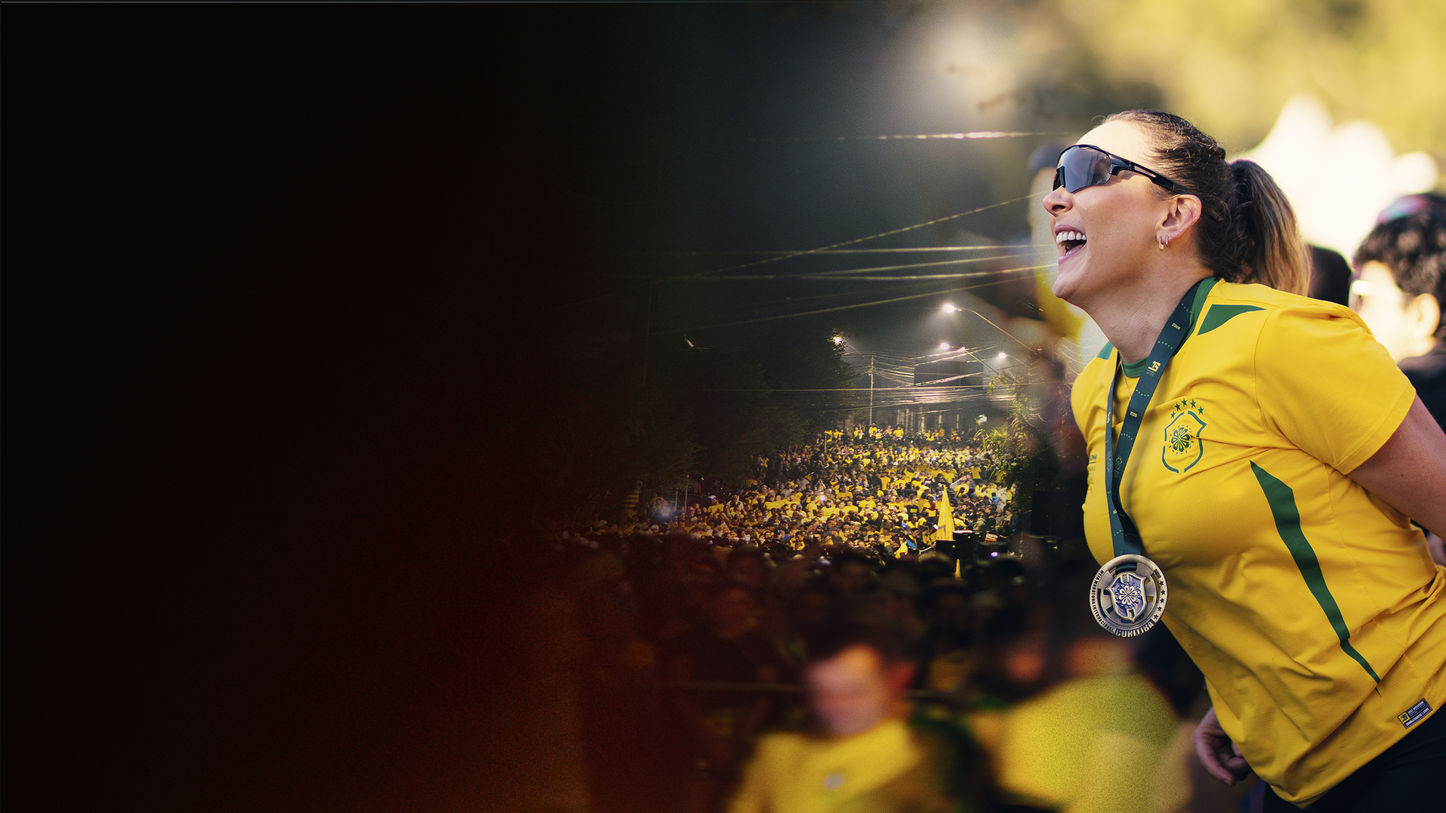
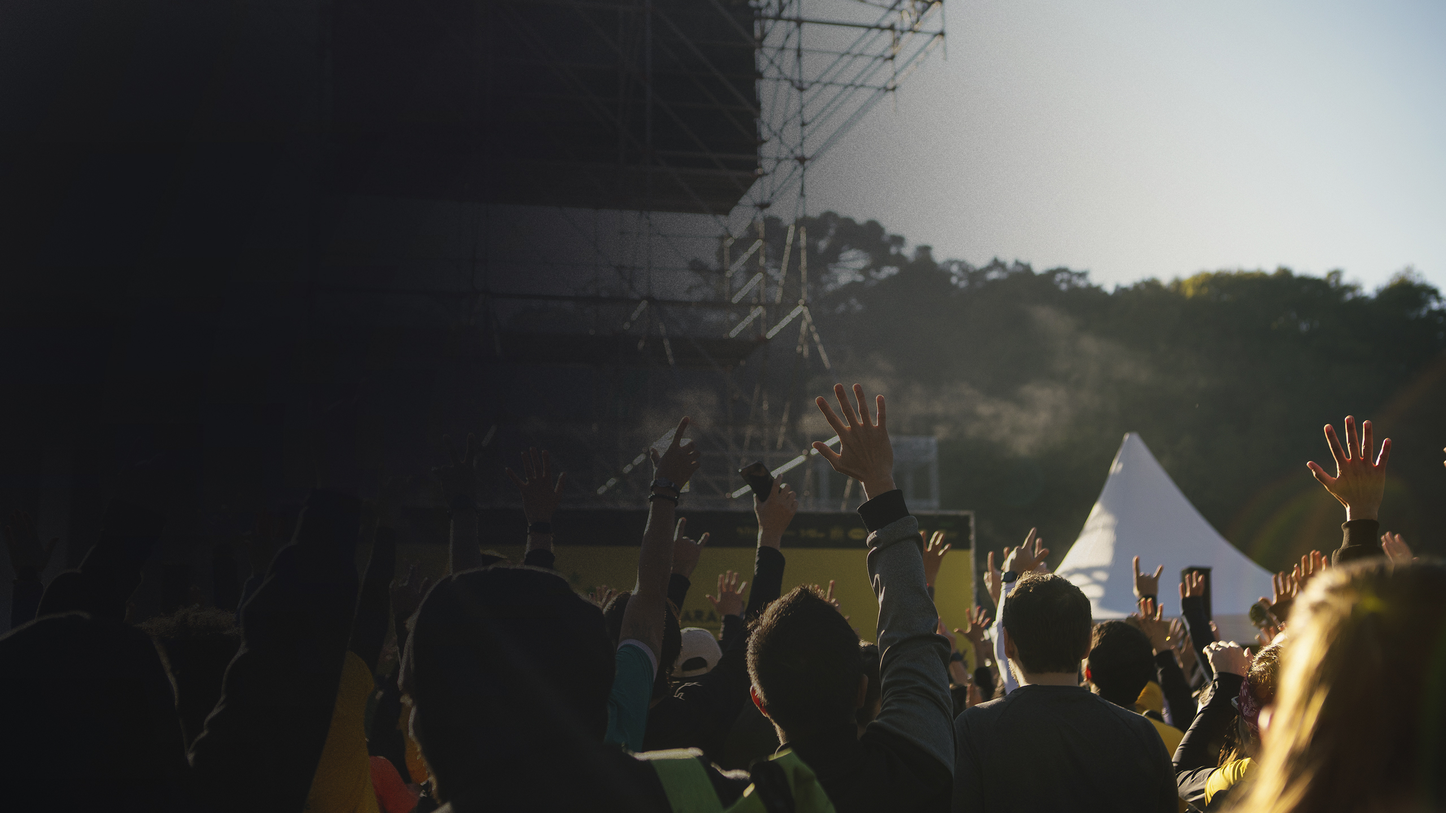
feat: troca a foto do hero pela do público em frente ao palco
Mesma dimensão da anterior (2560x1440, 16:9), então as medidas em
content/hero.ts não mudam — só o arquivo, o alt e o enquadramento.

ENQUADRAMENTO — `object-position` sai de 78% para 65%. O 78% tinha sido
escolhido para a foto antiga, onde a corredora ficava entre 70% e 95% da
largura. Nesta o assunto é outro: num viewport estreito o `object-cover`
mostra só ~22% da largura, e nessa janela o 50% cai na estrutura do palco
enquanto o 78% deixa quase só céu e a tenda. 65% pega as mãos erguidas em
contraluz.

OPACIDADE — sobe de 45% para 70%. A foto anterior tinha camisas amarelas
em plena luz e atravessava o gradiente da seção; esta é inteira em
contraluz e a 45% ficava invisível, o que anulava a troca. O texto segue
legível porque se apoia no terço de baixo, que é público em silhueta.

Conferido que a foto não traz tarja chapada como a da banda: a área
escura da esquerda varia coluna a coluna (22, 21, 21, 22, 26, ...), é a
estrutura do palco na sombra.

Claude-Session: https://claude.ai/code/session_01Ds6Sz2PrfifME7pN3h9g3F

diff --git a/components/sections/HeroSection.tsx b/components/sections/HeroSection.tsx
@@ -67,19 +67,25 @@ export function HeroSection() {
       <div aria-hidden className="absolute inset-0 -z-20">
         <div data-hero-media className="absolute inset-x-0 -top-[8%] h-[116%]">
           {/*
-            `object-position` puxado para a direita porque é lá que está a
-            corredora. Com o padrão (50%), o `object-cover` num viewport
-            estreito mostrava só 22% da largura da foto — a faixa central,
-            escura, sem ninguém. `sizes` declara mais que 100vw porque a
-            camada é 116% da altura e o cover amplia a imagem além da largura
-            do viewport.
+            `object-position` fora do centro porque num viewport estreito o
+            `object-cover` mostra só ~22% da largura: em 50% a janela cai na
+            estrutura do palco, e em 78% sobra quase só céu e a tenda. 65%
+            pega as mãos erguidas em contraluz, que é o assunto.
+            `sizes` declara mais que 100vw porque a camada é 116% da altura e
+            o cover amplia a imagem além da largura do viewport.
+
+            A opacidade subiu de 45% para 70% junto com a troca da foto: a
+            anterior tinha camisas amarelas em plena luz e sobrevivia ao
+            gradiente, esta é contraluz e a 45% sumia por completo. O texto
+            continua legível porque se apoia no terço de baixo, que é público
+            em silhueta.
           */}
           <Media
             media={hero.background}
             preload
             sizes="(min-width: 1024px) 160vw, 100vw"
             className="h-full w-full"
-            imageClassName="opacity-45 object-[78%_center]"
+            imageClassName="opacity-70 object-[65%_center]"
           />
         </div>
       </div>

diff --git a/content/hero.ts b/content/hero.ts
@@ -37,13 +37,13 @@ export const hero = {
   } satisfies Cta,
   scrollHint: "Role para descobrir",
   /**
-   * Camada de imagem com parallax leve. A arte já vem com degradê escuro à
-   * esquerda, onde a headline se apoia — se ela for trocada por uma foto
-   * chapada, o texto perde contraste e vai precisar de overlay próprio.
+   * Camada de imagem com parallax leve. O terço inferior da foto é público em
+   * contraluz, quase silhueta, e é sobre ele que a headline se apoia. Uma
+   * troca por foto de fundo claro embaixo exigiria overlay próprio.
    */
   background: {
     src: "/images/hero.jpg",
-    alt: "Corredora com a camisa do Brasil e medalha no peito, cercada pelo público na chegada",
+    alt: "Público de mãos erguidas em frente ao palco, no fim da tarde",
     width: 2560,
     height: 1440,
   } satisfies Media,
